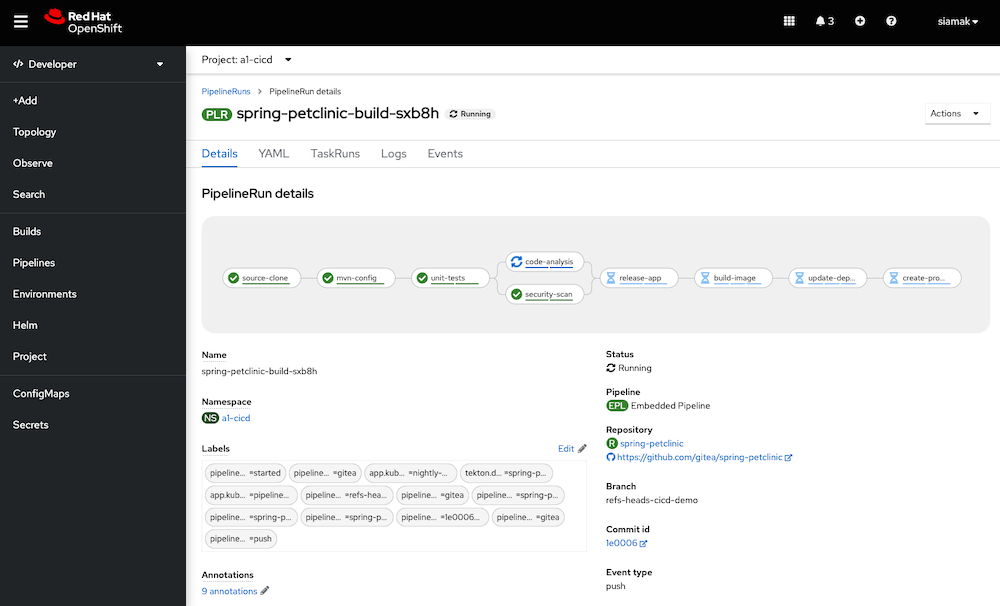
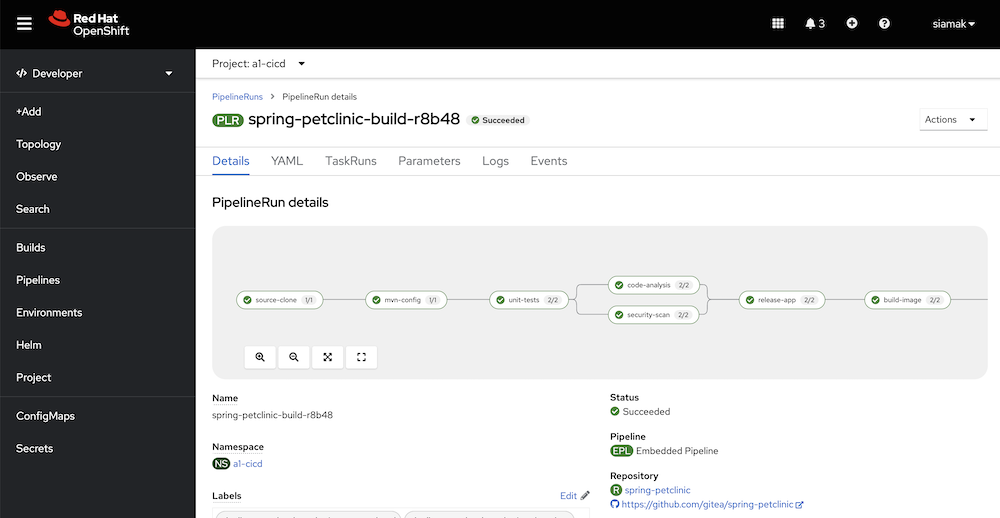
updated instructions

diff --git a/README.md b/README.md
@@ -51,7 +51,7 @@ Argo CD continuously monitor the configurations stored in the Git repository and
 
 1. Get an OpenShift cluster via https://try.openshift.com
 1. Install OpenShift GitOps Operator
-1. Download [OpenShift CLI](https://mirror.openshift.com/pub/openshift-v4/clients/ocp/latest/) and [Tekton CLI](https://github.com/tektoncd/cli/releases)
+1. Download [OpenShift CLI](https://mirror.openshift.com/pub/openshift-v4/clients/ocp/latest/) and [OpenShift Pipelines CLI](https://mirror.openshift.com/pub/openshift-v4/clients/pipeline/latest/)
 1. Deploy the demo
 
     ```text
@@ -60,19 +60,16 @@ Argo CD continuously monitor the configurations stored in the Git repository and
     $ demo.sh install
     ```
 
-1. Start the deploy pipeline by making a change in the `spring-petclinic` Git repository on Gitea, or run the following:
+1. Start the deploy pipeline by making a change in the `spring-petclinic` Git repository on Gitea and commit it directly or preferrably create a pull-request for it directly via the Gitea web ui.
+
+1. Check the pipeline run logs in Dev Console or OpenShift Pipelines CLI:
 
     ```text
-    $ demo.sh start
+    $ opc pac list -n $cicd_pr
+    $ opc pac logs -n $cicd_prj
     ```
 
-1. Check pipeline run logs
-
-    ```text
-    $ tkn pipeline logs petclinic-build -L -f -n demo-cicd
-    ```
-
-
+![Gitea Pull Request](docs/images/gitea.png)
 
 ![Pipeline Diagram](docs/images/pipelines-3.png)
 
